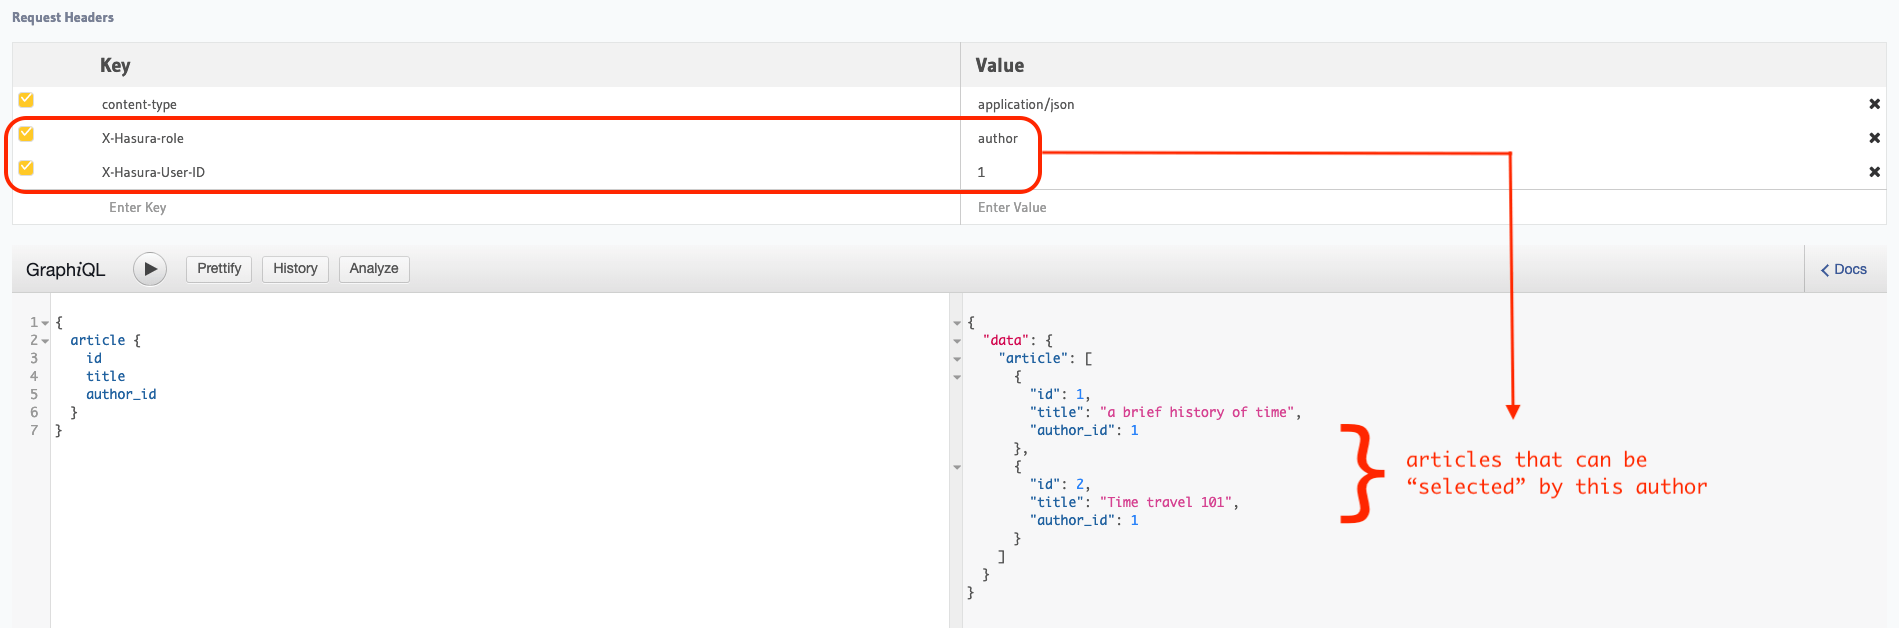
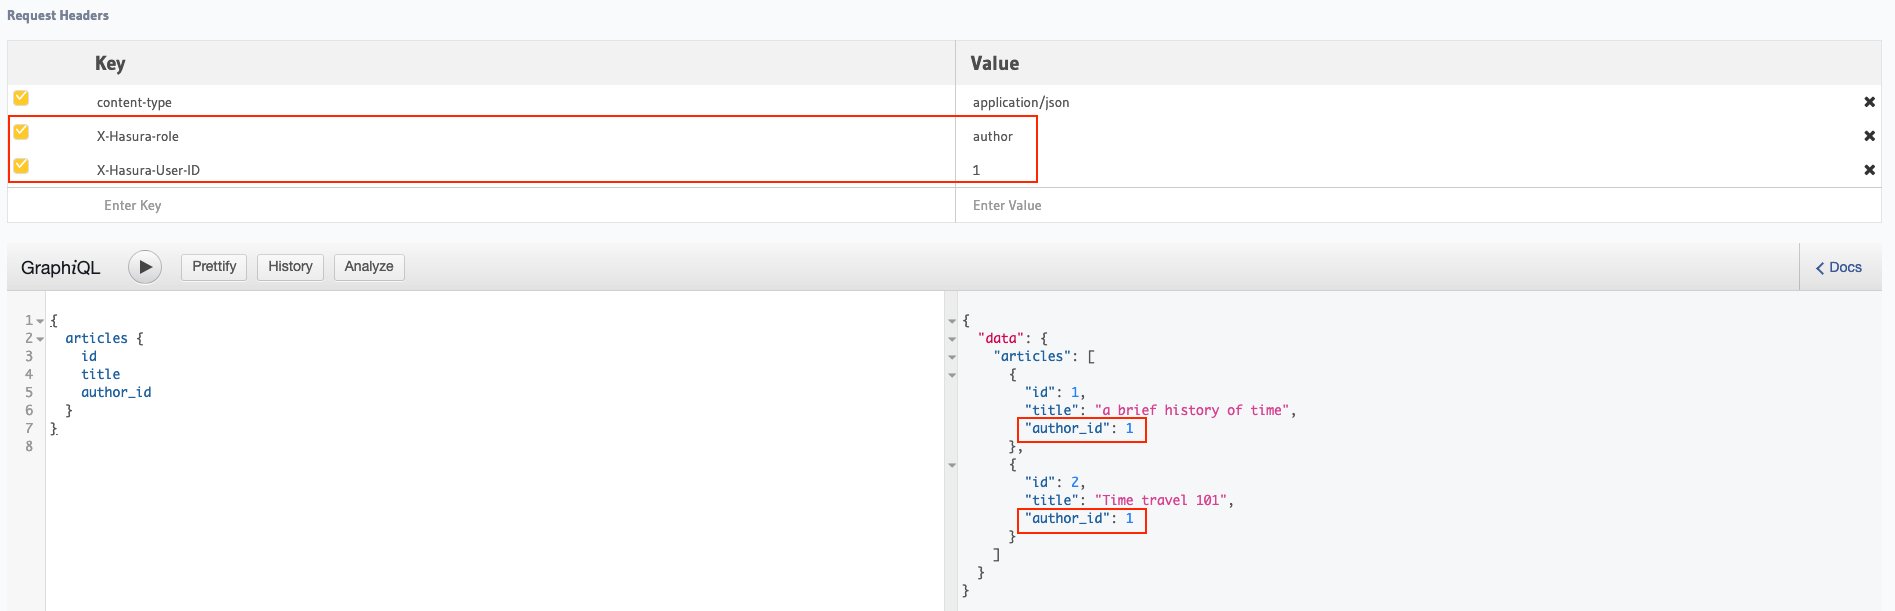
edit multirole example

diff --git a/docs/graphql/manual/auth/common-roles-auth-examples.rst b/docs/graphql/manual/auth/common-roles-auth-examples.rst
@@ -60,9 +60,7 @@ organisation either in the same table or via a related table.
 Collaborators of an article
 ---------------------------
 
-Let's say the "ownership" or "visibility" information for a data model (table) is not present as a column in the
-table, but in a different related table. In this case, let's say there is an ``article`` table and a ``collaborator``
-table that has ``article_id, collaborator_id`` columns.
+Let's say the "ownership" or "visibility" information for a data model (table) is not present as a column in the table, but in a different related table. In this case, let's say there is an ``article`` table and a ``collaborator`` table that has ``article_id, collaborator_id`` columns.
 
 - Create a relationship called ``collaborators`` from the article table.
 
@@ -117,76 +115,111 @@ fields for data that they own.
 Multiple roles per user
 -----------------------
 
-Let's say you want to handle contexts where users can have multiple roles, and each role controls access to different data sets. To understand how to handle such contexts, let's extend the articles/authors context by introducing a new role, ``editor`` i.e. some authors are also editors and they can edit articles written by other authors.
+Sometimes your data/user model requires that users be assigned multiple roles, and each role have access to different parts of your database schema. If you have the information about roles and how they map to your data in the same database as the one configured with GraphQL Engine, you can leverage relationships to define permissions that effectively control access to data and the operations each role is allowed to perform. 
 
-So, our current context is as follows:
+To understand how this works, let's model the roles and corresponding permissions in the context of a blog app where:
 
-* We have the following table:
+* Users can submit their own articles as an ``author`` and/or edit certain articles assigned to them as a ``reviewer``.
+
+* Some users are also designated as an ``editor``, allowing them to edit or delete any article.
+
+.. thumbnail:: ../../../img/graphql/manual/auth/multirole-setup.png
+   :class: no-shadow
+
+
+Database Schema
+^^^^^^^^^^^^^^^
+
+We'll create the following tables:
 
 .. code-block:: sql
 
-  author (
+  -- user information from your auth system
+
+  user_info (
     id INT PRIMARY KEY,
     name TEXT
   )
+  
+  -- information about articles and authors
 
-  article (
+  articles (
     id INT PRIMARY KEY,
     title TEXT,
-    author_id INT
+    author_id INT REFERENCES user_info(id) -- Foreign key to user_info :: id
   )
 
-* A foreign key constaint has been set from ``article`` :: ``author_id`` →  ``author`` :: ``id`` and the corresponding object and array relationships.
-
-* The following permission rules have been defined to restrict access for authors (the role ``author``) to only their articles (*for insert, update, select and delete operations*):
-
-.. thumbnail:: ../../../img/graphql/manual/auth/author-article-permissions.png
-
-If were to query the article table as an author with id equal to ``1`` i.e with the header ``X-Hasura-Role`` set to ``author`` ``X-Hasura-User-ID`` set to ``1``, we will see a subset of the data i.e. articles written by this author:
-
-.. thumbnail:: ../../../img/graphql/manual/auth/restricted-data-for-author-role.png
-
-Add new role
-^^^^^^^^^^^^
-
-To implement our use-case, we will introduce the role ``editor`` and assign this role to this author (``id`` = ``1``). To do this, we'll create a table that captures this mapping of an editor to an article, called ``article_editor``:
-
-.. code-block:: sql
-
-  article_editor (
-    article_id INT PRIMARY KEY,
-    editor_id  INT PRIMARY KEY
+  -- mapping of reviewers to articles (many to many)
+  
+  article_reviewer (
+    article_id INT REFERENCES articles(id), -- Foreign key to articles :: id
+    reviewer_id INT REFERENCES user_info(id), -- Foreign key to user_info :: id
+    PRIMARY KEY (article_id, reviewer_id)
   )
 
-We'll also define foreign keys to the ``article`` and ``author`` tables and define an array relationship called ``editors`` based on one of these foreign key i.e. ``article_editor`` :: ``article_id``  →  ``article``:: ``id``.
+  -- a simple list of editors for this blog
 
-Add permissions for new role
-^^^^^^^^^^^^^^^^^^^^^^^^^^^^
+  editors (
+    editor_id INT REFERENCES user_info(id), -- Foreign key to user_info :: id
+    PRIMARY KEY (editor_id)
+  )
 
-Let's define a new permission rule for the role ``editor`` for select, update and delete actions, taking advantage of this relationship:
+Relationships
+^^^^^^^^^^^^^
 
-.. thumbnail:: ../../../img/graphql/manual/auth/editor-role-permissions.png
+Create an array relationship ``reviewers`` based on the foreign key constraint ``article_reviewer`` :: ``article_id``  →  ``articles`` :: ``id``:
 
-This permission rules translates to "*if an article's editor's ID is the same as the current user's ID, allow access to it*". Notice how you can limit access to only the content (``title``) and not other information like the ``author_id`` field. 
+.. thumbnail:: ../../../img/graphql/manual/auth/reviewers-array-relationship.png
+     :class: no-shadow
 
-Now let's make the author from the previous query an editor of an article written by someone else by adding an entry into the ``article_editor`` table:
+Permissions
+^^^^^^^^^^^
 
-+------------+-----------+
-| article_id | editor_id |
-+============+===========+
-|   3        | 1         |
-+------------+-----------+
+We'll now create permission rules to restrict access to rows and columns of the ``articles`` table as per our requirements:
 
-Query/mutate data with new role
-^^^^^^^^^^^^^^^^^^^^^^^^^^^^^^^
+* **Allow users with the role** ``author`` **to insert/select/update/delete only their own articles**
+  
+  For insert permission, we need to just configure a session-variable-based :doc:`column preset <../schema/default-values/column-presets>` for the ``author_id`` column as this will automatically accept only the user's ID i.e. the ``X-Hasura-User-Id`` header's value. It also helps us avoid explicitly passing the user's ID in the mutation.
 
-We can now see the subset of data from the ``article`` table that is exposed to the same user but now with the ``editor`` role:
+  .. thumbnail:: ../../../img/graphql/manual/auth/author-insert-preset.png
+     :class: no-shadow
 
-.. thumbnail:: ../../../img/graphql/manual/auth/restricted-data-for-editor-role.png
+  For update, select and delete permissions, we need to configure the following rule:
 
-With the ``editor`` role, this user can now only see those articles that they are an editor for. The user can also update the content for these article, since they have the corresponding update permissions to do so:
+  .. thumbnail:: ../../../img/graphql/manual/auth/author-update-permissions.png
+     :class: no-shadow
+  
+  The update permission rule shown here translates to "*if the value in the* ``author_id`` *column of this row is equal to the user's ID i.e. the* ``X-Hasura-User-Id`` *header's value, allow access to it*". We'll also remove access to the ``author_id`` column in the column permissions so it cannot be modified.
+  
+  The same rule can be used for select and delete too, but the column permission shown above is not required for select (*and is not applicable to delete*).
 
-.. thumbnail:: ../../../img/graphql/manual/auth/restricted-data-for-editor-role.png
+  If we now query the ``articles`` table as an ``author`` i.e with the header ``X-Hasura-Role`` set to ``author`` and ``X-Hasura-User-ID`` set to a user's ID, we will only see articles written by this author in the response:
+
+  .. thumbnail:: ../../../img/graphql/manual/auth/restricted-data-for-author-role.png
+     :class: no-shadow
+
+* **Allow users with the role** ``reviewer`` **to only view articles assigned to them for reviews and edit only the content of such articles**
+
+  .. thumbnail:: ../../../img/graphql/manual/auth/reviewer-select-permissions.png
+     :class: no-shadow
+
+  The array-relationship based permission rule in the above image reads as "*if the ID of any of reviewers assigned to this article is equal to the user's ID i.e. the* ``X-Hasura-User-Id`` *header's value, allow access to it*".
+
+  The same rule can be applied to both update and delete, and in the case of update, we'll use column permissions, as shown above in the update permission for the role ``author``, to restrict access to only the ``title`` column, so that only the content can be updated by a reviewer.
+
+  In the previous example query, if we modify the role from ``author`` to ``reviewer``, we will see only those articles that have been assigned to this user for a review :
+  
+  .. thumbnail:: ../../../img/graphql/manual/auth/restricted-data-for-reviewer-role.png
+     :class: no-shadow
+
+* **Allow editors to select/update/delete any article**
+
+  .. thumbnail:: ../../../img/graphql/manual/auth/editor-delete-permissions.png
+     :class: no-shadow
+  
+  We can define straightforward permission rules for the ``editor`` role that allows access to any article without any checks. The rule shown in the above image will also work for select and update.
+
+
 
 
 
